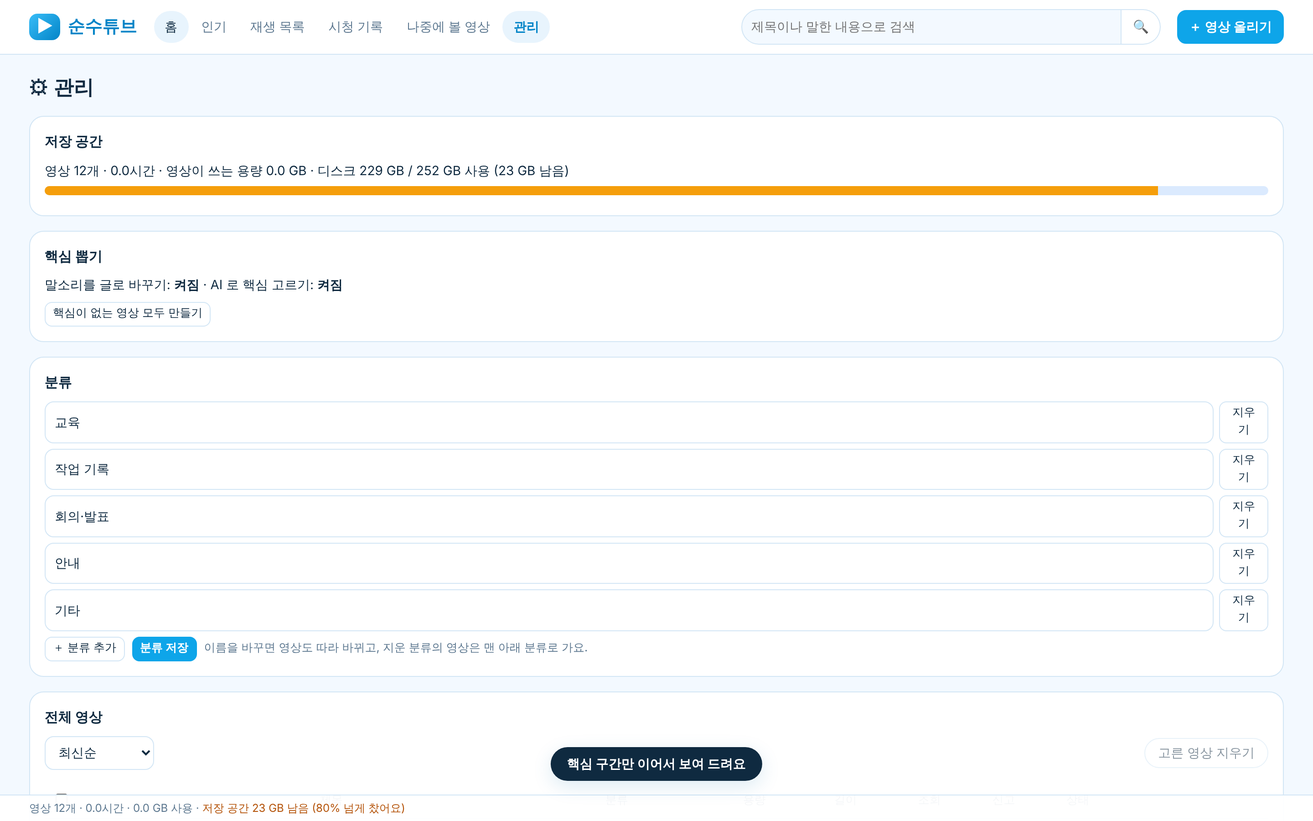
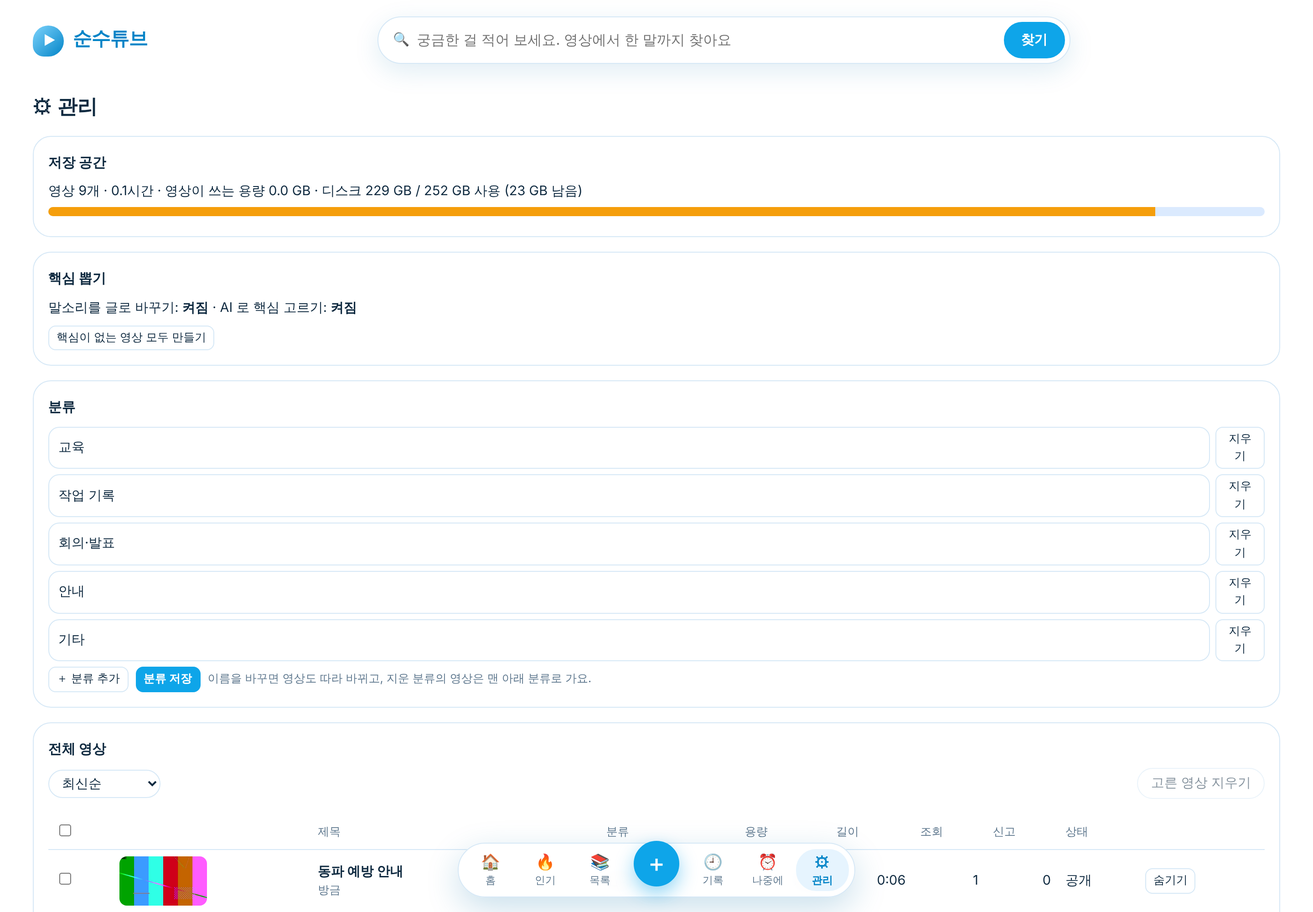
새 화면: 먼저 읽고 필요한 장면만 보는 읽는 카드, 말한 장면 검색, 아래에 떠 있는 메뉴
Claude-Session: https://claude.ai/code/session_01WFWMCxUpiuvt1NbcY57aW6

diff --git a/module/web/style.css b/module/web/style.css
@@ -1,67 +1,84 @@
-/* 순수튜브: 하늘색과 하얀색의 밝은 화면. 홈은 큰 배너와 가로 줄 목록. */
-:root{--bg:#f3f9ff;--panel:#fff;--soft:#e8f4fd;--line:#d3e6f5;--text:#0f2a40;--muted:#5d7890;--accent:#0ea5e9;--accent2:#0284c7;--bad:#dc2626;--shadow:0 6px 22px rgba(14,116,170,.14)}
-*{box-sizing:border-box}body{margin:0;background:var(--bg);color:var(--text);font:14px/1.5 system-ui,"Malgun Gothic",sans-serif}
-a{color:inherit;text-decoration:none}button,input,select,textarea{font:inherit;color:inherit}
-button,a.btn{background:#fff;border:1px solid var(--line);border-radius:10px;padding:7px 12px;cursor:pointer;display:inline-block}button:hover,a.btn:hover{border-color:var(--accent);color:var(--accent2)}
+/* 순수튜브: "먼저 읽고, 필요한 장면만 본다". 하늘색과 하얀색. 메뉴는 아래에 떠 있는 둥근 띠. */
+:root{--bg:#f5fbff;--panel:#fff;--soft:#e6f4fe;--line:#d6e8f6;--text:#0f2a40;--muted:#60798f;--accent:#0ea5e9;--accent2:#0284c7;--bad:#dc2626;--shadow:0 8px 28px rgba(14,116,170,.13)}
+*{box-sizing:border-box}body{margin:0;color:var(--text);font:14.5px/1.55 system-ui,"Malgun Gothic",sans-serif;background:var(--bg) radial-gradient(900px 500px at 8% -10%,#d9f0ff 0,transparent 60%) fixed,var(--bg) radial-gradient(700px 500px at 100% 0,#e9f7ff 0,transparent 55%) fixed}
+a{color:inherit;text-decoration:none}button,input,select,textarea{font:inherit;color:inherit}i,em{font-style:normal}
+button,a.btn{background:#fff;border:1px solid var(--line);border-radius:12px;padding:7px 12px;cursor:pointer;display:inline-block}button:hover,a.btn:hover{border-color:var(--accent);color:var(--accent2)}
 button.primary,a.btn.primary{background:var(--accent);border-color:var(--accent);color:#fff;font-weight:600}button.primary:hover,a.btn.primary:hover{background:var(--accent2);color:#fff}
 button.ghost{background:transparent}button:disabled{opacity:.5;cursor:default}
 button.on{background:var(--accent2);color:#fff;border-color:var(--accent2)}button.small{padding:3px 8px;font-size:12.5px;border-radius:8px}
-input,select,textarea{background:#fff;border:1px solid var(--line);border-radius:10px;padding:8px 10px;width:100%}input:focus,select:focus,textarea:focus{outline:2px solid #bae6fd;border-color:var(--accent)}input[type=checkbox]{width:auto;accent-color:var(--accent)}
+input,select,textarea{background:#fff;border:1px solid var(--line);border-radius:12px;padding:8px 10px;width:100%}input:focus,select:focus,textarea:focus{outline:2px solid #bae6fd;border-color:var(--accent)}input[type=checkbox]{width:auto;accent-color:var(--accent)}
+mark{background:#fde68a;color:inherit;border-radius:3px;padding:0 1px}
 
-/* 위쪽 줄 */
-.top{position:sticky;top:0;z-index:6;display:flex;gap:8px 18px;align-items:center;flex-wrap:wrap;padding:10px 32px;background:rgba(255,255,255,.94);backdrop-filter:blur(8px);border-bottom:1px solid var(--line)}
-.logo{font-size:19px;font-weight:800;white-space:nowrap;color:var(--accent2)}.logo .mark{display:inline-block;background:linear-gradient(135deg,#38bdf8,#0284c7);color:#fff;border-radius:9px;padding:0 8px;margin-right:4px}
-.nav{display:flex;gap:2px;overflow-x:auto;scrollbar-width:none}.nav a{padding:7px 12px;border-radius:18px;white-space:nowrap;color:var(--muted);font-weight:500}.nav a:hover{background:var(--soft);color:var(--text)}.nav a.on{background:var(--soft);color:var(--accent2);font-weight:700}
-.search{flex:1;display:flex;min-width:200px;max-width:460px;margin-left:auto}.search input{border-radius:20px 0 0 20px;background:var(--bg)}.search button{border-radius:0 20px 20px 0;border-left:0}
-@media(max-width:900px){.top{padding:8px 14px}.nav{order:5;width:100%}.search{min-width:120px}}
-main{padding:20px 32px 70px;max-width:1800px;margin:0 auto}@media(max-width:900px){main{padding:14px 14px 70px}}
-h1.page{font-size:22px;margin:0 0 14px}.sub{color:var(--muted);margin:-8px 0 14px}.meta{color:var(--muted);font-size:12.5px}
-.chips{display:flex;gap:8px;flex-wrap:wrap;margin-bottom:16px;align-items:center}.chips button{border-radius:18px;padding:5px 14px}.chips button[aria-pressed=true]{background:var(--accent2);color:#fff;border-color:var(--accent2)}.chips .sp{flex:1}.chips select{width:auto}
+/* 위: 로고와 큰 검색창 */
+.top{display:flex;gap:10px 22px;align-items:center;flex-wrap:wrap;padding:18px 36px 6px;max-width:1500px;margin:0 auto}
+.logo{font-size:21px;font-weight:800;white-space:nowrap;color:var(--accent2);letter-spacing:-.5px}.logo .mark{display:inline-grid;place-items:center;width:34px;height:34px;background:linear-gradient(135deg,#7dd3fc,#0284c7);color:#fff;border-radius:50% 50% 50% 12px;margin-right:6px;font-size:14px;padding-left:2px}
+.search{flex:1;display:flex;align-items:center;gap:8px;min-width:240px;max-width:760px;margin:0 auto;background:#fff;border:1px solid var(--line);border-radius:28px;padding:5px 5px 5px 16px;box-shadow:var(--shadow)}
+.search input{border:0;padding:8px 0;font-size:15.5px;background:transparent}.search input:focus{outline:0}.search:focus-within{border-color:var(--accent)}.search button{border-radius:22px;padding:8px 18px;white-space:nowrap;flex:none}
+main{padding:18px 36px 120px;max-width:1500px;margin:0 auto}@media(max-width:800px){.top{padding:12px 14px 4px}main{padding:12px 14px 120px}}
+h1.page{font-size:22px;margin:6px 0 14px}h1.page .meta{font-weight:400;margin-left:8px}.sub{color:var(--muted);margin:-8px 0 14px}.meta{color:var(--muted);font-size:12.5px}
+.chips{display:flex;gap:8px;flex-wrap:wrap;margin:6px 0 18px;align-items:center}.chips button{border-radius:18px;padding:5px 14px}.chips button[aria-pressed=true]{background:var(--text);color:#fff;border-color:var(--text)}.chips .sp{flex:1}.chips select{width:auto;border-radius:18px;padding:5px 10px}
+.seg{display:inline-flex;border:1px solid var(--line);border-radius:18px;overflow:hidden;background:#fff}.seg button{border:0;border-radius:0!important;padding:5px 12px}
 
-/* 홈: 큰 배너 */
-.hero{display:grid;grid-template-columns:minmax(0,1fr) minmax(0,46%);gap:28px;align-items:center;padding:30px 34px;margin-bottom:20px;border-radius:24px;background:linear-gradient(120deg,#e0f2fe 0%,#fff 55%,#f0f9ff 100%);border:1px solid var(--line);box-shadow:var(--shadow)}
-.hero .kicker{display:inline-block;background:var(--accent);color:#fff;border-radius:14px;padding:2px 12px;font-size:12.5px;font-weight:600}
-.hero h1{font-size:clamp(22px,3vw,36px);line-height:1.25;margin:12px 0 8px}.hero p{font-size:15px;margin:0 0 8px;color:#335069;display:-webkit-box;-webkit-line-clamp:3;-webkit-box-orient:vertical;overflow:hidden}
-.hero .btns{display:flex;gap:10px;flex-wrap:wrap;margin-top:18px}.hero .btn{padding:10px 20px;border-radius:24px;font-size:15px;font-weight:600}
-.hero .pic{position:relative;aspect-ratio:16/9;border-radius:18px;background:#cfe8f8 center/cover no-repeat;box-shadow:0 14px 34px rgba(2,132,199,.25);display:grid;place-items:center;transition:transform .2s}.hero .pic:hover{transform:scale(1.02)}
-.hero .pic span{width:64px;height:64px;border-radius:50%;background:rgba(255,255,255,.92);color:var(--accent2);font-size:26px;display:grid;place-items:center;padding-left:5px;box-shadow:var(--shadow)}
-@media(max-width:800px){.hero{grid-template-columns:1fr;padding:18px}.hero .pic{order:-1}}
+/* 아래에 떠 있는 메뉴 */
+.dock{position:fixed;left:50%;bottom:16px;transform:translateX(-50%);z-index:8;display:flex;gap:2px;align-items:center;padding:6px;background:rgba(255,255,255,.92);backdrop-filter:blur(10px);border:1px solid var(--line);border-radius:30px;box-shadow:0 12px 36px rgba(14,116,170,.22);max-width:calc(100vw - 16px)}
+.dock a{display:flex;flex-direction:column;align-items:center;min-width:58px;padding:5px 8px;border-radius:22px;font-size:11.5px;color:var(--muted);line-height:1.25}.dock a i{font-size:17px}.dock a:hover{background:var(--soft);color:var(--text)}.dock a.on{background:var(--soft);color:var(--accent2);font-weight:700}
+.dock #uploadBtn{width:50px;height:50px;border-radius:50%;font-size:24px;padding:0;margin:-14px 6px 0;box-shadow:0 8px 20px rgba(14,165,233,.45);line-height:1}
+@media(max-width:480px){.dock a{min-width:44px;padding:5px 3px}}
+body.theater .dock{opacity:.35}body.theater .dock:hover{opacity:1}
 
-/* 홈: 가로 줄 */
-.shelf{margin-bottom:10px}.shelf h2{font-size:18px;margin:0 0 2px}.shelf h2 a{cursor:pointer}.shelf h2 span{font-size:12.5px;font-weight:500;color:var(--accent2);opacity:0;transition:opacity .15s;margin-left:6px}.shelf:hover h2 span{opacity:1}
-.rail{position:relative}.rowlist{display:flex;gap:14px;overflow-x:auto;scroll-snap-type:x proximity;padding:12px 4px 18px;scrollbar-width:none}.rowlist::-webkit-scrollbar,.nav::-webkit-scrollbar{display:none}
-.rowlist .card{flex:0 0 clamp(210px,19vw,290px);scroll-snap-align:start}
-.arrow{position:absolute;top:calc(50% - 40px);z-index:3;width:42px;height:42px;border-radius:50%;padding:0;font-size:22px;line-height:1;background:#fff;box-shadow:var(--shadow);opacity:0;transition:opacity .15s}.rail:hover .arrow{opacity:1}.arrow.l{left:-14px}.arrow.r{right:-14px}.arrow[hidden]{display:none}
+/* 홈: 오늘의 영상 */
+.spot{display:grid;grid-template-columns:minmax(0,52%) minmax(0,1fr);gap:30px;align-items:center;background:var(--panel);border:1px solid var(--line);border-radius:28px;padding:18px;margin:8px 0 18px;box-shadow:var(--shadow)}
+.spot .thumb{border-radius:20px;border:0}.spot .play{width:66px;height:66px;border-radius:50%;background:rgba(255,255,255,.93);color:var(--accent2);font-size:25px;display:grid;place-items:center;padding-left:5px;box-shadow:var(--shadow);transition:transform .15s}.spot .thumb:hover .play{transform:scale(1.1)}
+.spot .txt{padding:6px 14px 6px 0}.kicker{display:inline-block;background:var(--soft);color:var(--accent2);border-radius:14px;padding:2px 12px;font-size:12.5px;font-weight:700}
+.spot h1{font-size:clamp(21px,2.4vw,31px);line-height:1.25;margin:10px 0 6px;letter-spacing:-.5px}.spot .sum{font-size:15px;margin:0 0 10px;color:#33526b}
+.btns{display:flex;gap:8px;flex-wrap:wrap;margin-top:14px}.btns .btn{padding:9px 18px;border-radius:22px;font-weight:600}
+@media(max-width:900px){.spot{grid-template-columns:1fr;gap:12px}.spot .txt{padding:0 6px 6px}}
+/* 핵심 문장(번호 + 내용 + 시간): 누르면 그 장면부터 */
+.step{display:grid;grid-template-columns:22px 1fr auto;gap:8px;align-items:start;padding:5px 6px;border-radius:10px;font-size:13.5px;line-height:1.45}.step:hover{background:var(--soft)}
+.step i,.pt i{display:inline-grid;place-items:center;width:20px;height:20px;border-radius:50%;background:var(--accent);color:#fff;font-size:11.5px;font-weight:700;margin-top:1px}
+.step em{color:var(--accent2);font-size:12px;font-weight:600;font-variant-numeric:tabular-nums}.flow{position:relative}.flow:before{content:"";position:absolute;left:15.5px;top:16px;bottom:16px;width:1.5px;background:#bfe3f8}.flow .step{position:relative}
+/* 이어 보기 */
+.cont{display:flex;gap:8px;align-items:center;overflow-x:auto;padding:2px 2px 10px;scrollbar-width:none}.cont b{white-space:nowrap;margin-right:4px}
+.cont a{display:flex;gap:8px;align-items:center;white-space:nowrap;background:#fff;border:1px solid var(--line);border-radius:20px;padding:5px 12px 5px 6px}.cont a:hover{border-color:var(--accent)}.cont em{color:var(--muted);font-size:12px}
+.ring{width:22px;height:22px;border-radius:50%;background:conic-gradient(var(--accent) calc(var(--p)*1%),#dbeafe 0);-webkit-mask:radial-gradient(circle,transparent 6px,#000 7px);mask:radial-gradient(circle,transparent 6px,#000 7px)}
 
-/* 카드 */
+/* 읽는 카드: 높이가 달라도 자연스럽게 흐르는 단 */
+.flowgrid{columns:330px;column-gap:18px}
+.rc{break-inside:avoid;background:var(--panel);border:1px solid var(--line);border-radius:22px;overflow:hidden;margin:0 0 18px;transition:box-shadow .18s,transform .18s}.rc:hover{box-shadow:var(--shadow);transform:translateY(-3px)}
+.rc .thumb{border-radius:0;border:0}.rcbody{padding:12px 14px 12px}.rc h3{margin:0 0 4px;font-size:16px;line-height:1.35;letter-spacing:-.2px}.rc h3:hover{color:var(--accent2)}
+.rc .sum{margin:0 0 8px;color:#3b5870;font-size:13.5px;display:-webkit-box;-webkit-line-clamp:3;-webkit-box-orient:vertical;overflow:hidden}.rc .meta{margin-top:8px}.rc .step{margin:0 -6px}
+.corelink{color:var(--accent2);font-weight:700}.corelink:hover{text-decoration:underline}
+.mini{position:relative;height:5px;background:#e3f1fb}.mini b{position:absolute;top:0;bottom:0;background:var(--accent)}
+.hits{background:var(--bg);border-radius:12px;padding:8px 10px;font-size:13px}.hits b{display:block;font-size:12px;color:var(--muted);margin-bottom:2px}.hit{display:grid;grid-template-columns:auto 1fr;gap:8px;padding:3px 0}.hit:hover span{color:var(--accent2)}.hit em{color:var(--accent2);font-weight:600;font-variant-numeric:tabular-nums}
+
+/* 그림 보기 · 작은 카드 */
 .grid{display:grid;grid-template-columns:repeat(auto-fill,minmax(240px,1fr));gap:22px 16px}
-.card{display:block;position:relative;transition:transform .18s}.rowlist .card:hover,.grid .card:hover{transform:translateY(-4px) scale(1.04);z-index:2}
-.thumb{position:relative;aspect-ratio:16/9;background:#d6ebf9 center/cover no-repeat;border-radius:14px;overflow:hidden;border:1px solid var(--line);display:grid;place-items:center;color:var(--muted);transition:box-shadow .18s}.card:hover .thumb{box-shadow:var(--shadow)}
-.thumb .dur,.thumb .badge{position:absolute;right:6px;bottom:6px;background:rgba(15,42,64,.82);border-radius:6px;padding:0 6px;font-size:12px;color:#fff}.thumb .badge{left:6px;right:auto;top:6px;bottom:auto;background:var(--accent2)}.thumb .state{font-size:13px;padding:0 10px;text-align:center}
+.card{display:block;position:relative;transition:transform .18s}.grid .card:hover{transform:translateY(-3px)}
+.thumb{position:relative;aspect-ratio:16/9;background:#d6ebf9 center/cover no-repeat;border-radius:16px;overflow:hidden;border:1px solid var(--line);display:grid;place-items:center;color:var(--muted)}
+.thumb .dur,.thumb .badge{position:absolute;right:8px;bottom:8px;background:rgba(15,42,64,.82);border-radius:8px;padding:0 7px;font-size:12px;color:#fff}.thumb .badge{left:8px;right:auto;top:8px;bottom:auto;background:var(--accent2)}.thumb .state{font-size:13px;padding:0 10px;text-align:center}
 .thumb .prog{position:absolute;left:0;bottom:0;height:4px;background:var(--accent)}
-.thumb .sumov{position:absolute;inset:auto 0 0 0;padding:26px 10px 9px;background:linear-gradient(transparent,rgba(8,47,73,.9));color:#fff;font-size:12.5px;line-height:1.4;opacity:0;transition:opacity .18s;display:-webkit-box;-webkit-line-clamp:3;-webkit-box-orient:vertical;overflow:hidden}
-.card:hover .sumov{opacity:1}.card:hover .sumov~.prog,.card:hover .thumb:has(.sumov) .dur{opacity:0}.side .sumov{display:none}
 .card h3{margin:8px 0 2px;font-size:15px;line-height:1.35;display:-webkit-box;-webkit-line-clamp:2;-webkit-box-orient:vertical;overflow:hidden}
 .card .x{position:absolute;right:6px;top:6px;z-index:2;padding:0 7px;background:rgba(255,255,255,.92);border:0;border-radius:8px}
 .empty{text-align:center;color:var(--muted);padding:70px 0}.empty b{display:block;font-size:17px;color:var(--text);margin-bottom:6px}
 
 /* 보기 화면 */
-.watch{display:grid;grid-template-columns:minmax(0,1fr) 380px;gap:24px}@media(max-width:1100px){.watch{grid-template-columns:1fr}}body.theater .watch{grid-template-columns:1fr}
-video{width:100%;max-height:72vh;background:#04121d;border-radius:16px;display:block;box-shadow:var(--shadow)}body.theater video{max-height:84vh}
+.watch{display:grid;grid-template-columns:minmax(0,1fr) 390px;gap:24px;margin-top:6px}@media(max-width:1100px){.watch{grid-template-columns:1fr}}body.theater .watch{grid-template-columns:1fr}
+video{width:100%;max-height:72vh;background:#04121d;border-radius:22px;display:block;box-shadow:var(--shadow)}body.theater video{max-height:84vh}
 .pbar{display:flex;gap:6px;align-items:center;flex-wrap:wrap;margin-top:8px}.pbar select{width:auto;padding:4px 6px}.pbar .sp{flex:1}.pbar label{color:var(--muted);font-size:13px;display:flex;gap:4px;align-items:center}
-.watch h1{font-size:21px;margin:14px 0 4px}.actions{display:flex;gap:8px;align-items:center;flex-wrap:wrap;margin:10px 0}.actions .sp{flex:1}.actions button{border-radius:20px}
-.desc{background:var(--panel);border:1px solid var(--line);border-radius:14px;padding:12px 14px;white-space:pre-wrap;margin:10px 0}.tag{display:inline-block;color:var(--accent2);margin-right:8px}
+.watch h1{font-size:22px;margin:14px 0 4px;letter-spacing:-.4px}.actions{display:flex;gap:8px;align-items:center;flex-wrap:wrap;margin:10px 0}.actions .sp{flex:1}.actions button{border-radius:20px}
+.desc{background:var(--panel);border:1px solid var(--line);border-radius:16px;padding:12px 14px;white-space:pre-wrap;margin:10px 0}.tag{display:inline-block;color:var(--accent2);margin-right:8px}
 .comments h2,.side h2{font-size:15px;margin:18px 0 8px}.cform{display:flex;gap:8px;align-items:center}.cform input:not([type]){flex:1}
 .comment{padding:10px 0;border-bottom:1px solid var(--line)}.comment .when{color:var(--muted);font-size:12px}.comment .at{color:var(--accent2);cursor:pointer;margin-right:6px;font-weight:600}.comment .ops{margin-top:4px;display:flex;gap:6px}.comment.reply{margin-left:28px;border-bottom:0;padding:6px 0}
-.side .card{display:grid;grid-template-columns:150px 1fr;gap:10px;margin-bottom:10px}.side .card h3{margin:0;font-size:13.5px}.side .card:hover{transform:none}
-.plbox,.corebox{background:var(--panel);border:1px solid var(--line);border-radius:14px;margin-bottom:14px;overflow:hidden}.plbox header{padding:10px 12px;background:var(--soft)}.plbox .items{max-height:340px;overflow:auto;padding:6px}.plbox .card.cur{background:var(--soft);border-radius:10px}
+.side .card{display:grid;grid-template-columns:150px 1fr;gap:10px;margin-bottom:10px}.side .card h3{margin:0;font-size:13.5px}.side .thumb{border-radius:12px}
+.plbox,.corebox{background:var(--panel);border:1px solid var(--line);border-radius:20px;margin-bottom:14px;overflow:hidden}.plbox header{padding:10px 14px;background:var(--soft)}.plbox .items{max-height:340px;overflow:auto;padding:6px}.plbox .card.cur{background:var(--soft);border-radius:10px}
 .plrow{display:grid;grid-template-columns:28px 160px 1fr auto;gap:12px;align-items:center;padding:8px;border-bottom:1px solid var(--line)}.plrow .n{color:var(--muted);text-align:center}
 
 /* 핵심 보기 */
-.corebox:empty{display:none}.corebox header{display:flex;gap:6px;align-items:center;padding:10px 12px;background:var(--soft)}.corebox header b{flex:1;color:var(--accent2)}
-.corebox .body{padding:10px 8px;max-height:420px;overflow:auto;position:relative}.corebox .body>p,.corebox .body>label{margin:0 4px 8px;display:block}.corebox .sum{line-height:1.6;font-weight:500}
+.corebox:empty{display:none}.corebox header{display:flex;gap:6px;align-items:center;padding:10px 14px;background:var(--soft)}.corebox header b{flex:1;color:var(--accent2)}
+.corebox .body{padding:10px 8px;max-height:440px;overflow:auto;position:relative}.corebox .body>p,.corebox .body>label{margin:0 6px 8px;display:block}.corebox .sum{line-height:1.6;font-weight:500}
 .corebox footer{display:flex;gap:6px;flex-wrap:wrap;align-items:center;padding:8px 12px;border-top:1px solid var(--line)}.corebox footer:empty{display:none}.corebox footer .sp{flex:1}
-.pt,.ln{display:block;padding:6px 8px;border-radius:8px;cursor:pointer;border-left:3px solid transparent}.pt:hover,.ln:hover{background:var(--soft)}.pt.cur,.ln.cur{background:var(--soft);border-left-color:var(--accent)}
+.pt,.ln{display:block;padding:6px 8px;border-radius:10px;cursor:pointer;border-left:3px solid transparent}.pt:hover,.ln:hover{background:var(--soft)}.pt.cur,.ln.cur{background:var(--soft);border-left-color:var(--accent)}
+.pt i{margin-right:6px;vertical-align:1px}.pt.cur i{background:var(--accent2)}
 .pt .at,.ln .at{color:var(--accent2);margin-right:8px;font-weight:600;font-variant-numeric:tabular-nums}.ln{padding:3px 8px;color:var(--muted);font-size:13px}.ln.core{color:var(--text)}.ln[hidden]{display:none}
 .filebtn{display:inline-block;border:1px solid var(--line);border-radius:8px;padding:3px 8px;font-size:12.5px;cursor:pointer;background:#fff}.filebtn:hover{border-color:var(--accent);color:var(--accent2)}
 .strip{position:relative;height:8px;background:#dbeafe;border-radius:4px;margin-top:8px;cursor:pointer;overflow:hidden}.strip[hidden]{display:none}.strip b{position:absolute;top:0;bottom:0;background:var(--accent)}.strip i{position:absolute;top:0;bottom:0;width:3px;background:var(--text)}
@@ -69,16 +86,16 @@ video{width:100%;max-height:72vh;background:#04121d;border-radius:16px;display:b
 #coreBtn{border-color:var(--accent);color:var(--accent2);font-weight:600}#coreBtn.on{background:var(--accent);border-color:var(--accent);color:#fff}
 
 /* 창 · 올리기 */
-dialog{background:var(--panel);color:var(--text);border:1px solid var(--line);border-radius:18px;padding:22px;width:min(560px,94vw);max-height:90vh;overflow:auto;box-shadow:0 20px 60px rgba(15,42,64,.25)}dialog::backdrop{background:rgba(15,42,64,.35)}
+dialog{background:var(--panel);color:var(--text);border:1px solid var(--line);border-radius:22px;padding:22px;width:min(560px,94vw);max-height:90vh;overflow:auto;box-shadow:0 20px 60px rgba(15,42,64,.25)}dialog::backdrop{background:rgba(15,42,64,.35)}
 dialog h2{margin:0 0 12px}dialog label{display:block;margin-bottom:10px;color:var(--muted);font-size:13px}dialog label input,dialog label select,dialog label textarea{margin-top:4px;color:var(--text)}
-.drop{border:2px dashed #a5d3ee;border-radius:14px;padding:18px;text-align:center;cursor:pointer;background:var(--bg)}.drop.over{border-color:var(--accent);background:var(--soft)}.drop b{display:block;color:var(--text)}
+.drop{border:2px dashed #a5d3ee;border-radius:16px;padding:18px;text-align:center;cursor:pointer;background:var(--bg)}.drop.over{border-color:var(--accent);background:var(--soft)}.drop b{display:block;color:var(--text)}
 .uprow{display:grid;grid-template-columns:1fr auto;gap:6px 8px;align-items:center;margin:8px 0}.uprow .bar{grid-column:1/3;height:6px;background:#dbeafe;border-radius:3px;overflow:hidden}.uprow .bar div{height:100%;width:0;background:var(--accent);transition:width .2s}.uprow .st{font-size:12px;color:var(--muted);white-space:nowrap}.uprow .st.bad{color:var(--bad)}.uprow .st.ok{color:#16a34a}
 .row{display:flex;gap:8px;justify-content:flex-end;align-items:center;flex-wrap:wrap}.row .sp{flex:1}.hint{color:var(--muted);font-size:12px;margin:10px 0 0}.msg{min-height:1.4em;margin:6px 0}.msg.bad{color:var(--bad)}
 .pick{display:flex;gap:8px;align-items:center;padding:6px 0}.pick input{width:auto}
 
 /* 관리 */
 table.adm{width:100%;border-collapse:collapse}table.adm th,table.adm td{padding:7px 8px;border-bottom:1px solid var(--line);text-align:left;vertical-align:middle}table.adm th{color:var(--muted);font-weight:500;font-size:12.5px}table.adm td.num{text-align:right;white-space:nowrap}table.adm img{width:96px;aspect-ratio:16/9;object-fit:cover;border-radius:8px;display:block;background:#d6ebf9}
-.box{background:var(--panel);border:1px solid var(--line);border-radius:16px;padding:16px;margin-bottom:16px}.box h2{font-size:15px;margin:0 0 10px}.catrow{display:flex;gap:6px;margin-bottom:6px}.meter{height:10px;background:#dbeafe;border-radius:5px;overflow:hidden;margin:6px 0}.meter div{height:100%;background:var(--accent)}.meter div.warn{background:#f59e0b}
+.box{background:var(--panel);border:1px solid var(--line);border-radius:20px;padding:16px;margin-bottom:16px}.box h2{font-size:15px;margin:0 0 10px}.catrow{display:flex;gap:6px;margin-bottom:6px}.meter{height:10px;background:#dbeafe;border-radius:5px;overflow:hidden;margin:6px 0}.meter div{height:100%;background:var(--accent)}.meter div.warn{background:#f59e0b}
 
-#toast{position:fixed;left:50%;bottom:44px;transform:translateX(-50%);background:var(--text);color:#fff;padding:8px 18px;border-radius:20px;z-index:20;font-weight:600;box-shadow:var(--shadow)}
-.foot{position:fixed;left:0;right:0;bottom:0;padding:5px 32px;background:rgba(255,255,255,.94);border-top:1px solid var(--line);color:var(--muted);font-size:12px;z-index:6}.foot .warn{color:#b45309}
+#toast{position:fixed;left:50%;bottom:96px;transform:translateX(-50%);background:var(--text);color:#fff;padding:8px 18px;border-radius:20px;z-index:20;font-weight:600;box-shadow:var(--shadow)}
+.foot{text-align:center;padding:0 16px 96px;margin-top:-80px;color:var(--muted);font-size:12px}.foot .warn{color:#b45309}

diff --git a/module/web/app.js b/module/web/app.js
@@ -18,48 +18,59 @@ function card(v, opt = {}) {
   const pos = ls.get('pos', {})[v.id], prog = pos && v.duration ? `<span class="prog" style="width:${Math.min(100, pos / v.duration * 100).toFixed(0)}%"></span>` : '';
   const badge = v.visibility === 'unlisted' ? '<span class="badge">링크로만</span>' : v.hidden ? '<span class="badge">숨김</span>' : '';
   return `<a class="card ${opt.cur ? 'cur' : ''}" href="#/v/${v.id}${opt.list ? '?list=' + opt.list : ''}">${opt.remove ? `<button class="x" data-remove="${v.id}" title="${opt.remove}">✕</button>` : ''}
-    <div class="thumb" ${bg}>${st}${badge}${v.duration ? `<span class="dur">${dur(v.duration)}</span>` : ''}${v.summary ? `<span class="sumov">${esc(v.summary)}</span>` : ''}${prog}</div>
+    <div class="thumb" ${bg}>${st}${badge}${v.duration ? `<span class="dur">${dur(v.duration)}</span>` : ''}${prog}</div>
     <div><h3>${esc(v.title)}</h3><div class="meta">${esc(v.category)} · 조회수 ${v.views}회 · ${ago(v.created)}${v.coreSec ? ` · ⚡ 핵심 ${dur(v.coreSec)}` : ''}</div></div></a>`;
 }
 const grid = (videos, emptyTitle, emptySub, opt) => videos.length ? `<div class="grid">${videos.map((v) => card(v, opt)).join('')}</div>` : `<div class="empty"><b>${emptyTitle}</b>${emptySub || ''}</div>`;
 
-/* ---------- 홈 · 인기 · 태그 ---------- */
-const shelf = (title, videos, more) => videos.length ? `<section class="shelf"><h2>${more ? `<a ${more}>${esc(title)} <span>모두 보기 ›</span></a>` : esc(title)}</h2>
-  <div class="rail"><button class="arrow l" title="앞으로">‹</button><div class="rowlist">${videos.map((v) => card(v)).join('')}</div><button class="arrow r" title="뒤로">›</button></div></section>` : '';
-async function shelves() {
-  const { videos } = await api('api/videos?sort=new');
-  if (!videos.length) { $('#view').innerHTML = '<div class="empty"><b>아직 영상이 없어요</b>첫 영상을 올려 보세요.</div>'; return; }
-  const ready = videos.filter((v) => v.status === 'ready'), pos = ls.get('pos', {});
-  const pop = ready.filter((v) => v.weekViews > 0).sort((a, b) => b.weekViews - a.weekViews || b.views - a.views).slice(0, 20), h = pop[0] || ready[0];
-  const later = h && ls.get('later', []).includes(h.id);
-  const hero = h ? `<section class="hero"><div class="txt"><span class="kicker">${pop[0] ? '이번 주 가장 많이 본 영상' : '새로 올라온 영상'}</span><h1>${esc(h.title)}</h1>
-      ${h.summary || h.desc ? `<p>${esc(h.summary || h.desc)}</p>` : ''}<div class="meta">${esc(h.category)} · 조회수 ${h.views}회 · ${ago(h.created)} · ${dur(h.duration)}</div>
-      <div class="btns"><a class="btn primary" href="#/v/${h.id}">▶ 재생</a>${h.coreSec ? `<a class="btn" href="#/v/${h.id}?core=1">⚡ 핵심만 보기 (${dur(h.coreSec)})</a>` : ''}<button id="heroLater" class="btn ${later ? 'on' : ''}">${later ? '✓ 담김' : '＋ 나중에 보기'}</button></div></div>
-    <a class="pic" href="#/v/${h.id}" ${h.thumb ? `style="background-image:url('${thumbUrl(h)}')"` : ''}><span>▶</span></a></section>` : '';
-  $('#view').innerHTML = hero + `<div class="chips">${['', ...meta.categories].map((c) => `<button data-cat="${esc(c)}" aria-pressed="${c === ''}">${esc(c) || '전체'}</button>`).join('')}</div>`
-    + shelf('이어 보기', ready.filter((v) => pos[v.id])) + shelf('이번 주 인기', pop, 'href="#/popular"') + shelf('새로 올라온 영상', videos.slice(0, 20), 'data-all')
-    + meta.categories.map((c) => shelf(c, videos.filter((v) => v.category === c).slice(0, 20), `data-cat="${esc(c)}"`)).join('');
-  $$('[data-cat]').forEach((b) => b.onclick = () => { state.cat = b.dataset.cat; home(); window.scrollTo(0, 0); });
-  $$('[data-all]').forEach((b) => b.onclick = () => { state.all = true; home(); window.scrollTo(0, 0); });
-  $$('.rail').forEach((r) => { const list = $('.rowlist', r), upd = () => { $('.arrow.l', r).hidden = list.scrollLeft < 5; $('.arrow.r', r).hidden = list.scrollLeft + list.clientWidth > list.scrollWidth - 5; };
-    $('.arrow.l', r).onclick = () => list.scrollBy({ left: -list.clientWidth * 0.8, behavior: 'smooth' }); $('.arrow.r', r).onclick = () => list.scrollBy({ left: list.clientWidth * 0.8, behavior: 'smooth' }); list.onscroll = upd; upd(); });
-  if ($('#heroLater')) $('#heroLater').onclick = () => { const l = ls.get('later', []), on = l.includes(h.id); ls.set('later', on ? l.filter((x) => x !== h.id) : [h.id, ...l]); $('#heroLater').classList.toggle('on', !on); $('#heroLater').textContent = on ? '＋ 나중에 보기' : '✓ 담김'; };
-  if (videos.some((v) => v.status === 'processing')) poll = setInterval(() => route(true), 4000);
+/* ---------- 홈 · 인기 · 태그: 먼저 읽고, 필요한 장면만 본다 ---------- */
+const hl = (text, words) => { let out = esc(text); for (const w of words || []) if (w) out = out.replace(new RegExp(esc(w).replace(/[.*+?^${}()|[\]\\]/g, '\\$&'), 'gi'), (m) => `<mark>${m}</mark>`); return out; };
+const mini = (v) => v.pts && v.pts.length && v.duration ? `<div class="mini" title="파란 부분이 핵심 구간">${v.pts.map((p) => `<b style="left:${p.s / v.duration * 100}%;width:${(p.e - p.s) / v.duration * 100}%"></b>`).join('')}</div>` : '';
+const steps = (v, max) => (v.pts || []).slice(0, max).map((p, i) => `<a class="step" href="#/v/${v.id}?t=${Math.floor(p.s)}"><i>${i + 1}</i><span>${esc(p.t) || '핵심 구간'}</span><em>${dur(p.s)}</em></a>`).join('');
+// 읽는 카드: 썸네일 + 핵심 띠 + 요약 + 핵심 문장(누르면 그 장면부터)
+function rcard(v, words) {
+  const bg = v.thumb ? `style="background-image:url('${thumbUrl(v)}')"` : '';
+  const st = v.status === 'processing' ? '<span class="state">⏳ 변환 중…</span>' : v.status === 'failed' ? '<span class="state">⚠ 변환 실패</span>' : (v.thumb ? '' : '<span class="state">▶</span>');
+  const pos = ls.get('pos', {})[v.id], prog = pos && v.duration ? `<span class="prog" style="width:${Math.min(100, pos / v.duration * 100).toFixed(0)}%"></span>` : '';
+  const hits = (v.hits || []).map((h) => `<a class="hit" href="#/v/${v.id}?t=${Math.floor(h.s)}"><em>${dur(h.s)}</em><span>“${hl(h.t, words)}”</span></a>`).join('');
+  const text = v.summary || v.desc;
+  return `<article class="rc"><a class="thumb" href="#/v/${v.id}" ${bg}>${st}${v.duration ? `<span class="dur">${dur(v.duration)}</span>` : ''}${prog}</a>${mini(v)}
+    <div class="rcbody"><a href="#/v/${v.id}"><h3>${hl(v.title, words)}</h3></a>${text ? `<p class="sum">${hl(text, words)}</p>` : ''}
+    ${hits ? `<div class="hits"><b>말한 장면</b>${hits}</div>` : steps(v, 3)}
+    <div class="meta">${esc(v.category)} · 조회수 ${v.views}회 · ${ago(v.created)}${v.coreSec ? ` · <a class="corelink" href="#/v/${v.id}?core=1">⚡ 핵심만 ${dur(v.coreSec)}</a>` : ''}</div></div></article>`;
 }
 async function home(kind, tag) {
-  if (!kind && !tag && !state.q && !state.cat && !state.all) return shelves();
   const p = new URLSearchParams();
   if (kind === 'popular') p.set('sort', 'week'); else { if (state.q) p.set('q', state.q); if (state.cat) p.set('cat', state.cat); p.set('sort', state.sort); }
   if (tag) p.set('tag', tag);
-  const { videos } = await api('api/videos?' + p);
-  let head = '';
+  let { videos } = await api('api/videos?' + p);
+  if (kind === 'popular') videos = videos.filter((v) => v.weekViews > 0).slice(0, 40);
+  const browse = !kind && !tag && !state.q && !state.cat && state.sort === 'new', words = state.q ? state.q.toLowerCase().split(/\s+/).filter(Boolean) : null, view = ls.get('view', 'read');
+  let top = '';
+  if (browse && videos.length) {
+    const ready = videos.filter((v) => v.status === 'ready'), h = [...ready].sort((a, b) => b.weekViews - a.weekViews)[0], pos = ls.get('pos', {}), cont = ready.filter((v) => pos[v.id]).slice(0, 8);
+    if (h) { const later = ls.get('later', []).includes(h.id); videos = videos.filter((v) => v !== h);
+      top += `<section class="spot"><a class="thumb" href="#/v/${h.id}" ${h.thumb ? `style="background-image:url('${thumbUrl(h)}')"` : ''}><span class="play">▶</span><span class="dur">${dur(h.duration)}</span></a>
+        <div class="txt"><span class="kicker">${h.weekViews ? '이번 주 가장 많이 본 영상' : '새로 올라온 영상'}</span><h1><a href="#/v/${h.id}">${esc(h.title)}</a></h1>${h.summary || h.desc ? `<p class="sum">${esc(h.summary || h.desc)}</p>` : ''}
+        ${h.pts.length ? `<div class="flow">${steps(h, 4)}</div>` : ''}
+        <div class="btns"><a class="btn primary" href="#/v/${h.id}">▶ 처음부터</a>${h.coreSec ? `<a class="btn" href="#/v/${h.id}?core=1">⚡ 핵심만 ${dur(h.coreSec)}</a>` : ''}<button id="spotLater" class="btn ${later ? 'on' : ''}" data-id="${h.id}">${later ? '✓ 담김' : '＋ 나중에'}</button></div></div></section>`; }
+    if (cont.length) top += `<div class="cont"><b>이어 보기</b>${cont.map((v) => `<a href="#/v/${v.id}"><span class="ring" style="--p:${Math.round(pos[v.id] / (v.duration || 1) * 100)}"></span>${esc(v.title)}<em>${dur(Math.max(0, v.duration - pos[v.id]))} 남음</em></a>`).join('')}</div>`;
+  }
+  let head;
   if (kind === 'popular') head = '<h1 class="page">🔥 인기 영상</h1><p class="sub">최근 7일 동안 많이 본 순서예요.</p>';
   else if (tag) head = `<h1 class="page">#${esc(tag)}</h1>`;
-  else head = `<div class="chips">${['', ...meta.categories].map((c) => `<button data-cat="${esc(c)}" aria-pressed="${state.cat === c}">${esc(c) || '전체'}</button>`).join('')}<span class="sp"></span>
-    <select id="sort"><option value="new">최신순</option><option value="views">조회순</option><option value="likes">좋아요순</option></select></div>${state.q ? `<p class="sub">"${esc(state.q)}" 검색 결과 ${videos.length}개</p>` : ''}`;
-  $('#view').innerHTML = head + grid(kind === 'popular' ? videos.filter((v) => v.weekViews > 0).slice(0, 40) : videos, state.q || state.cat || tag ? '찾는 영상이 없어요' : kind === 'popular' ? '아직 본 영상이 없어요' : '아직 영상이 없어요', state.q || state.cat || tag || kind ? '' : '첫 영상을 올려 보세요.');
+  else head = `${state.q ? `<h1 class="page">“${esc(state.q)}” <span class="meta">${videos.length}개 찾음 · 제목, 설명, 영상에서 한 말까지 찾았어요</span></h1>` : ''}
+    <div class="chips">${['', ...meta.categories].map((c) => `<button data-cat="${esc(c)}" aria-pressed="${state.cat === c}">${esc(c) || '전체'}</button>`).join('')}<span class="sp"></span>
+    <select id="sort"><option value="new">최신순</option><option value="views">조회순</option><option value="likes">좋아요순</option></select>
+    <span class="seg"><button data-view="read" aria-pressed="${view === 'read'}" title="요약과 핵심을 읽으며 고르기">읽기</button><button data-view="grid" aria-pressed="${view === 'grid'}" title="썸네일만 크게">그림</button></span></div>`;
+  const emptyT = state.q || state.cat || tag ? '찾는 영상이 없어요' : kind === 'popular' ? '아직 본 영상이 없어요' : top ? '' : '아직 영상이 없어요';
+  const body = videos.length ? (view === 'grid' && !words ? `<div class="grid">${videos.map((v) => card(v)).join('')}</div>` : `<div class="flowgrid">${videos.map((v) => rcard(v, words)).join('')}</div>`)
+    : emptyT ? `<div class="empty"><b>${emptyT}</b>${state.q || state.cat || tag || kind ? '' : '아래 ＋ 버튼으로 첫 영상을 올려 보세요.'}</div>` : '';
+  $('#view').innerHTML = top + head + body;
   if ($('#sort')) { $('#sort').value = state.sort; $('#sort').onchange = (e) => { state.sort = e.target.value; home(); }; }
-  $$('[data-cat]').forEach((b) => b.onclick = () => { state.cat = b.dataset.cat; if (!b.dataset.cat) { state.all = false; state.q = ''; $('#q').value = ''; } home(); });
+  $$('[data-cat]').forEach((b) => b.onclick = () => { state.cat = b.dataset.cat; if (!b.dataset.cat) { state.q = ''; $('#q').value = ''; } home(); });
+  $$('[data-view]').forEach((b) => b.onclick = () => { ls.set('view', b.dataset.view); home(kind, tag); });
+  if ($('#spotLater')) $('#spotLater').onclick = (e) => { const id = e.target.dataset.id, l = ls.get('later', []), on = l.includes(id); ls.set('later', on ? l.filter((x) => x !== id) : [id, ...l]); e.target.classList.toggle('on', !on); e.target.textContent = on ? '＋ 나중에' : '✓ 담김'; };
   if (videos.some((v) => v.status === 'processing')) poll = setInterval(() => route(true), 4000);
 }
 
@@ -193,7 +204,7 @@ async function watch(id, params) {
       return;
     }
     if (!has && tr && tab === 'core' && !busy && !ins.summary) tab = 'script';
-    const core = (ins.summary ? `<p class="sum">${esc(ins.summary)}</p>` : '') + (has ? ins.points.map((p) => `<a class="pt" data-s="${p.s}"><span class="at">${dur(p.s)}</span>${esc(p.t) || '핵심 구간'} <span class="meta">${Math.max(1, Math.round(p.e - p.s))}초</span></a>`).join('')
+    const core = (ins.summary ? `<p class="sum">${esc(ins.summary)}</p>` : '') + (has ? ins.points.map((p, i) => `<a class="pt" data-s="${p.s}"><i>${i + 1}</i><span class="at">${dur(p.s)}</span>${esc(p.t) || '핵심 구간'} <span class="meta">${Math.max(1, Math.round(p.e - p.s))}초</span></a>`).join('')
       : busy ? '' : `<p class="meta">${esc(ins.note) || '아직 핵심 구간이 없어요.'}</p>`) + (has && ins.note ? `<p class="meta">${esc(ins.note)}</p>` : '');
     const script = `<input id="trQ" placeholder="대본에서 찾기" style="margin-bottom:6px">` + ins.transcript.map((x, i) => `<a class="ln ${inPt((x.s + x.e) / 2) >= 0 ? 'core' : ''}" data-i="${i}" data-s="${x.s}"><span class="at">${dur(x.s)}</span>${esc(x.t)}</a>`).join('');
     box.innerHTML = `<header><b>⚡ 핵심 내용</b>${tr ? `<button class="small ${tab === 'core' ? 'on' : ''}" data-tab="core">핵심</button><button class="small ${tab === 'script' ? 'on' : ''}" data-tab="script">전체 대본</button>` : ''}</header>

diff --git a/module/web/index.html b/module/web/index.html
@@ -10,19 +10,19 @@
 <body>
 <header class="top">
   <a class="logo" href="#/"><span class="mark">▶</span> 순수튜브</a>
-  <nav id="side" class="nav">
-    <a href="#/" data-nav="home">홈</a>
-    <a href="#/popular" data-nav="popular">인기</a>
-    <a href="#/playlists" data-nav="playlists">재생 목록</a>
-    <a href="#/history" data-nav="history">시청 기록</a>
-    <a href="#/later" data-nav="later">나중에 볼 영상</a>
-    <a href="#/admin" data-nav="admin">관리</a>
-  </nav>
-  <form id="searchForm" class="search"><input id="q" placeholder="제목이나 말한 내용으로 검색" autocomplete="off"><button title="찾기">🔍</button></form>
-  <button id="uploadBtn" class="primary">＋ 영상 올리기</button>
+  <form id="searchForm" class="search"><span>🔍</span><input id="q" placeholder="궁금한 걸 적어 보세요. 영상에서 한 말까지 찾아요" autocomplete="off"><button class="primary">찾기</button></form>
 </header>
 <main id="view"></main>
 <footer class="foot"><span id="disk"></span></footer>
+<nav id="side" class="nav dock">
+  <a href="#/" data-nav="home"><i>🏠</i>홈</a>
+  <a href="#/popular" data-nav="popular"><i>🔥</i>인기</a>
+  <a href="#/playlists" data-nav="playlists"><i>📚</i>목록</a>
+  <button id="uploadBtn" class="primary" title="영상 올리기">＋</button>
+  <a href="#/history" data-nav="history"><i>🕘</i>기록</a>
+  <a href="#/later" data-nav="later"><i>⏰</i>나중에</a>
+  <a href="#/admin" data-nav="admin"><i>⚙</i>관리</a>
+</nav>
 
 <dialog id="uploadDlg">
   <form id="uploadForm" method="dialog">
